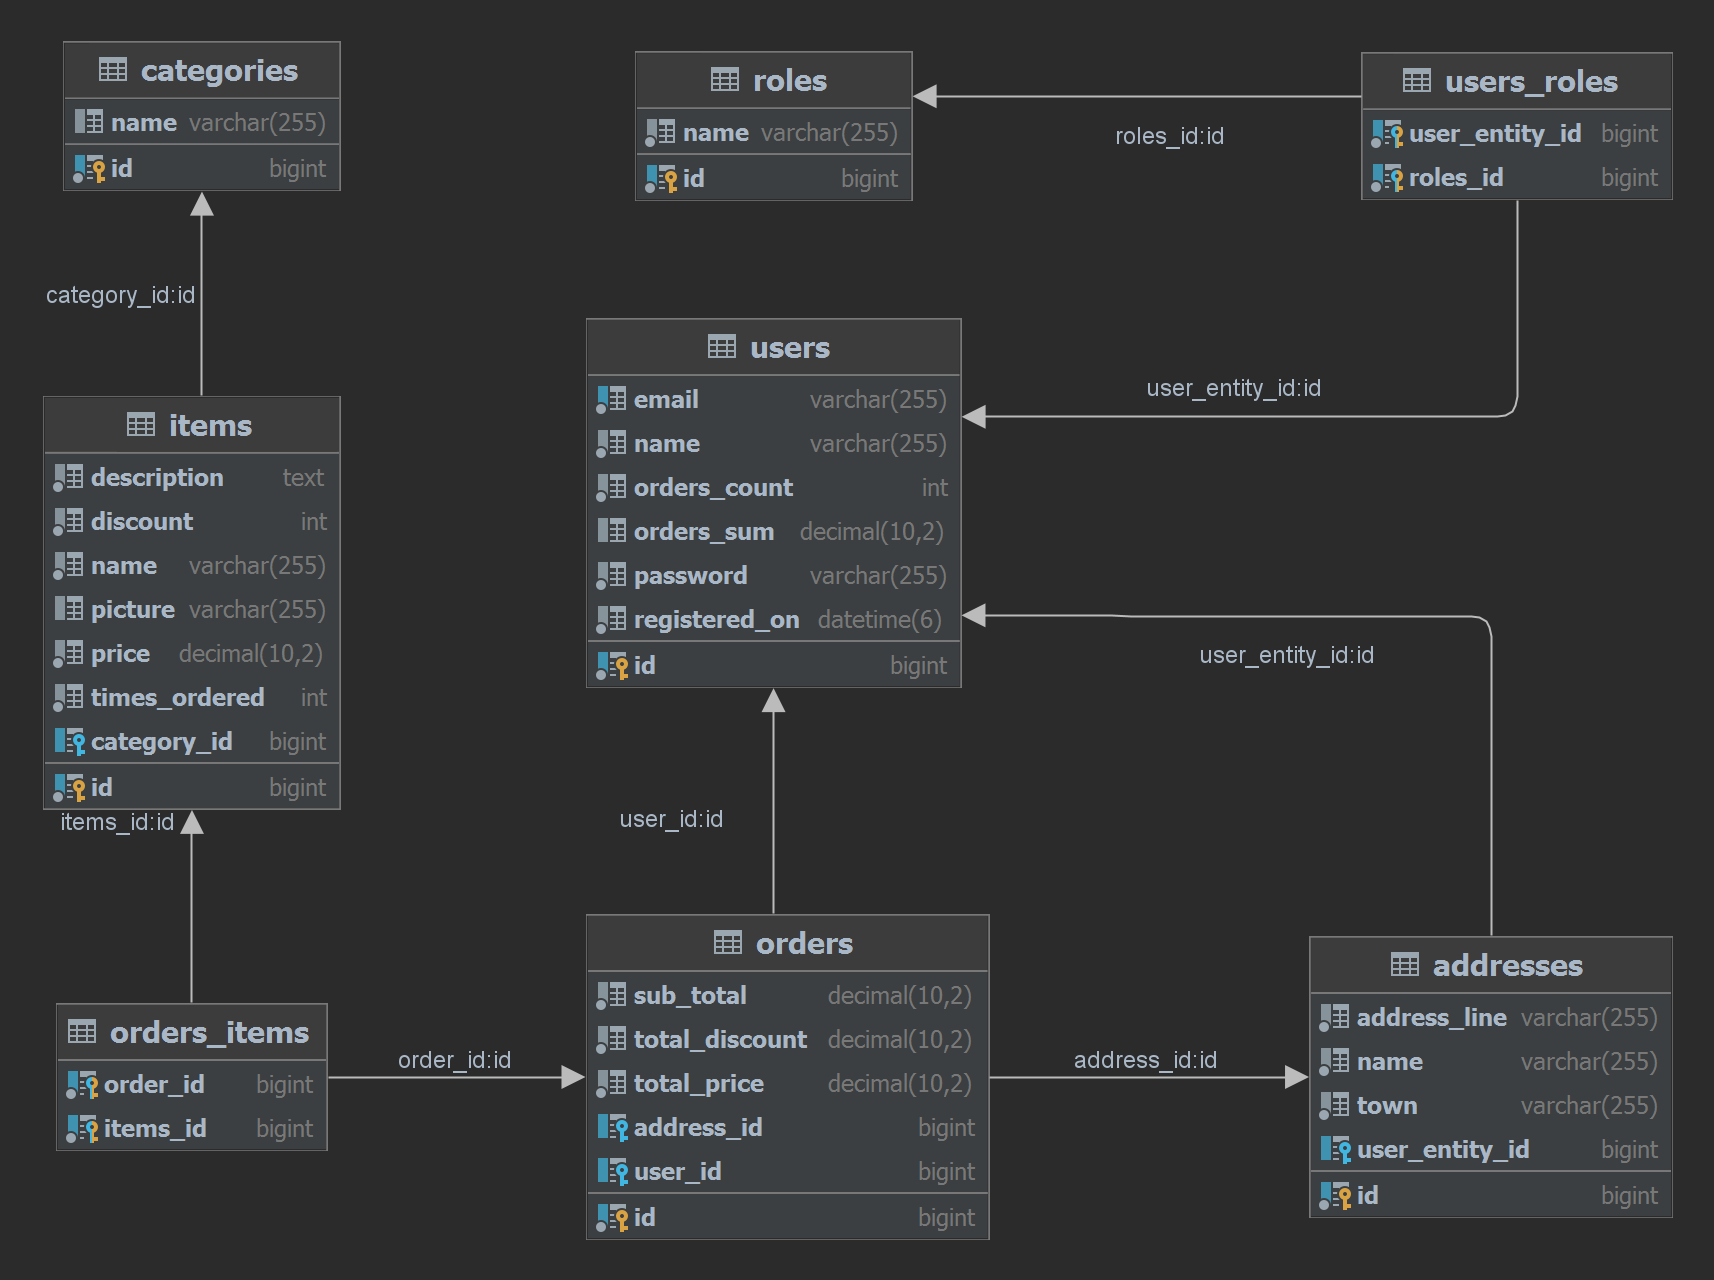
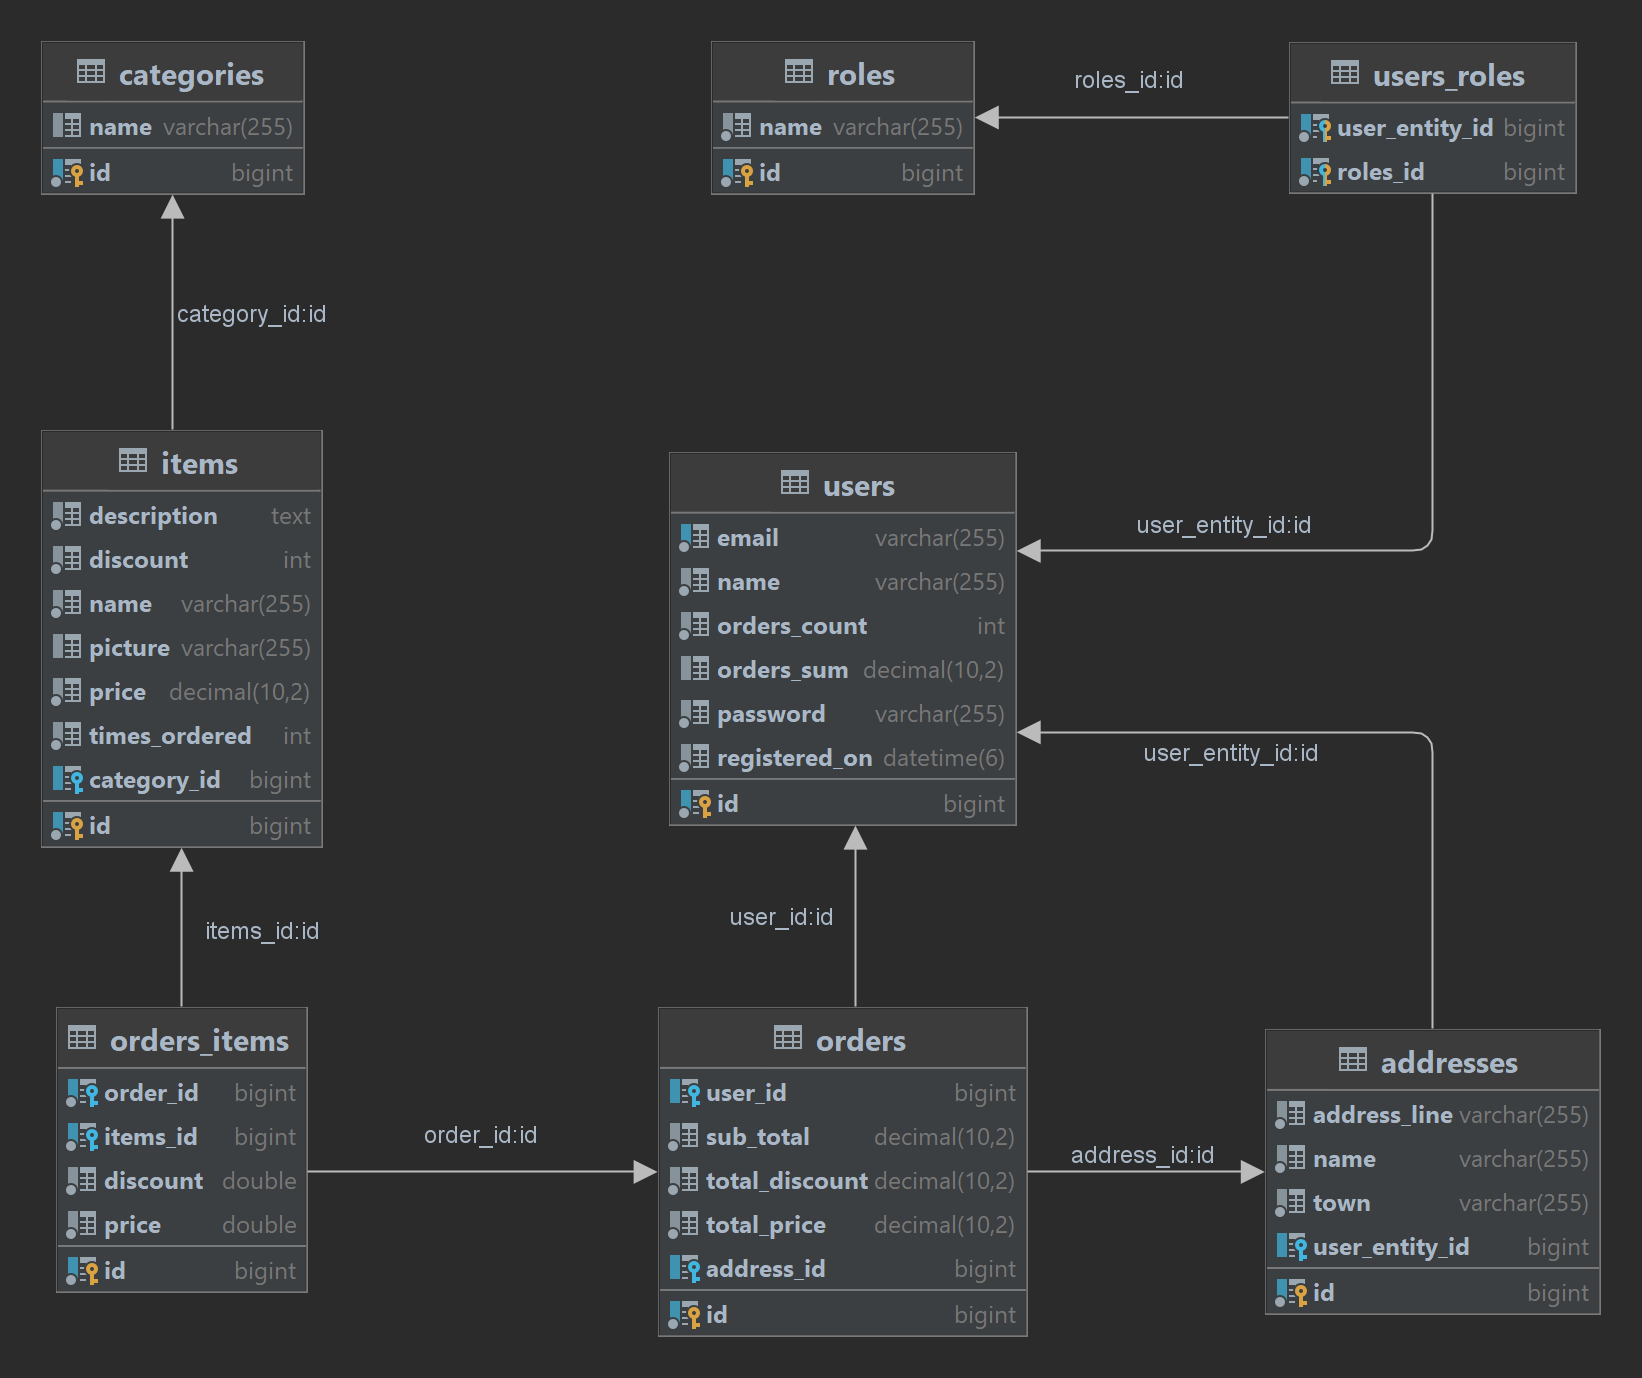
Finally, update orders_items table. Left to do in admin page.

diff --git a/OnlineShop/src/main/resources/templates/view-order.html b/OnlineShop/src/main/resources/templates/view-order.html
@@ -35,14 +35,14 @@
                                     </tr>
                                     </thead>
                                     <tbody class="align-middle">
-                                    <tr th:each="oi : ${order.getItems()}">
+                                    <tr th:each="oi : ${order.orderDetails}">
                                         <!--Item-->
-                                        <td><img th:src="${oi.pictureURL}" class="imgCart" th:alt="${oi.pictureURL}"></td>
+                                        <td><img th:src="${oi.getItem().getPictureURL()}" class="imgCart" th:alt="${oi.item.pictureURL}"></td>
 
                                         <!--Name-->
                                         <td class="text-left align-middle">
-                                            <p th:text="${oi.onlyName}" class="lead font-weight-bold"></p>
-                                            <p th:text="${oi.category.name}" class="h6"></p></td>
+                                            <p th:text="${oi.item.onlyName}" class="lead font-weight-bold"></p>
+                                            <p th:text="${oi.item.category.name}" class="h6"></p></td>
 
                                         <!--Price-->
                                         <td th:if="${oi.discount == 0}" class="align-middle">

diff --git a/OnlineShop/src/main/resources/templates/profile-view.html b/OnlineShop/src/main/resources/templates/profile-view.html
@@ -59,7 +59,7 @@
                     <tbody class="align-middle">
                     <tr th:each="o : ${orders}">
                         <td th:text="${o.id}" class="align-middle"></td>
-                        <td th:text="${o.items.size()}" class="align-middle"></td>
+                        <td th:text="${o.orderDetails.size()}" class="align-middle"></td>
                         <td th:text="${o.subTotal}" class="align-middle"></td>
                         <td th:text="${o.totalDiscount}" class="align-middle"></td>
                         <td th:text="${o.totalPrice}" class="align-middle"></td>

diff --git a/OnlineShop/src/main/resources/templates/profile.html b/OnlineShop/src/main/resources/templates/profile.html
@@ -90,7 +90,7 @@
                     <tbody class="align-middle">
                     <tr th:each="o : ${orders}">
                         <td th:text="${o.id}" class="align-middle"></td>
-                        <td th:text="${o.items.size()}" class="align-middle"></td>
+                        <td th:text="${o.orderDetails.size()}" class="align-middle"></td>
                         <td th:text="${o.subTotal}" class="align-middle"></td>
                         <td th:text="${o.totalDiscount}" class="align-middle"></td>
                         <td th:text="${o.totalPrice}" class="align-middle"></td>

diff --git a/OnlineShop/src/main/resources/templates/admin.html b/OnlineShop/src/main/resources/templates/admin.html
@@ -41,7 +41,7 @@
             <tr th:each="user : ${allUsers}">
                 <td th:text="${user.id}" class="align-middle"></td>
                 <td class="align-middle">
-                    <a th:href="@{/users/admin/view-profile/{id}(id=${user.id})}">
+                    <a th:href="@{/users/admin/view-profile/{id}(id=${user.id})}" class="btn btn-light">
                         <span th:text="${user.email}">
                     </span></a>
                 </td>

diff --git a/OnlineShop/src/main/java/com/onlineshop/service/OrderService.java b/OnlineShop/src/main/java/com/onlineshop/service/OrderService.java
@@ -1,17 +1,12 @@
 package com.onlineshop.service;
 
 import com.onlineshop.model.dto.OrderDTO;
-import com.onlineshop.model.entity.Address;
-import com.onlineshop.model.entity.Order;
-import com.onlineshop.model.entity.UserEntity;
+import com.onlineshop.model.entity.*;
 import com.onlineshop.model.user.ShopUserDetails;
-import com.onlineshop.repository.AddressRepository;
-import com.onlineshop.repository.OrderRepository;
-import com.onlineshop.repository.UserRepository;
+import com.onlineshop.repository.*;
 import org.springframework.stereotype.Service;
 
-import java.util.HashSet;
-import java.util.List;
+import java.util.*;
 
 
 @Service
@@ -20,22 +15,31 @@ public class OrderService {
     private final OrderRepository orderRepository;
     private final UserRepository userRepository;
     private final AddressRepository addressRepository;
+    private final ItemRepository itemRepository;
 
-    public OrderService(OrderRepository orderRepository, UserRepository userRepository, AddressRepository addressRepository) {
+    public OrderService(OrderRepository orderRepository, UserRepository userRepository, AddressRepository addressRepository, ItemRepository itemRepository) {
         this.orderRepository = orderRepository;
         this.userRepository = userRepository;
         this.addressRepository = addressRepository;
+        this.itemRepository = itemRepository;
     }
 
     public void newOrder(OrderDTO orderDTO, ShopUserDetails user) {
 
-        Order order = new Order();
-
         UserEntity userById = this.userRepository.getUserById(user.getId());
+
         String addressLine = orderDTO.getAddressLine().split("town:")[0];
         Address addressByAddressLine = this.addressRepository.findAddressByAddressLine(addressLine);
 
-        order.setItems(new HashSet<>(user.getCart()));
+        Collection<Item> cartItems = user.getCart();
+
+        //Order set up
+        Order order = new Order();
+
+        for (Item item : cartItems) {
+            OrderItem orderItem = new OrderItem(order, item, item.getPrice(), item.getDiscount());
+            order.addOrderItem(orderItem);
+        }
 
         if (user.getTotalDiscountValue() > 0) {
             order.setSubTotal(user.getTotalPrice());
@@ -46,13 +50,25 @@ public class OrderService {
         order.setAddress(addressByAddressLine);
         order.setUser(userById);
 
-        this.orderRepository.save(order);
 
+        //Item timesOrdered set up
+        cartItems.forEach(i -> {
+            int timesOrdered = i.getTimesOrdered();
+            timesOrdered++;
+            i.setTimesOrdered(timesOrdered);
+        });
+
+        //User set up
         double userCurrentOrderSum = userById.getOrdersSum();
         userById.setOrdersSum(userCurrentOrderSum + order.getTotalPrice());
         int userCurrentOrderCount = userById.getOrdersCount();
         userCurrentOrderCount++;
         userById.setOrdersCount(userCurrentOrderCount);
+        //--------------------------------------------------
+
+        this.orderRepository.save(order);
+
+        this.itemRepository.saveAll(cartItems);
 
         this.userRepository.save(userById);
     }

diff --git a/OnlineShop/src/main/java/com/onlineshop/model/entity/Order.java b/OnlineShop/src/main/java/com/onlineshop/model/entity/Order.java
@@ -1,6 +1,7 @@
 package com.onlineshop.model.entity;
 
 import javax.persistence.*;
+import java.util.HashSet;
 import java.util.Set;
 
 @Entity
@@ -10,12 +11,6 @@ public class Order {
     @Id
     @GeneratedValue(strategy = GenerationType.IDENTITY)
     private long id;
-
-    @ManyToMany(fetch = FetchType.EAGER)
-    @JoinTable(name = "orders_items",
-                joinColumns = @JoinColumn(name = "order_id", referencedColumnName = "id"),
-                inverseJoinColumns = @JoinColumn(name = "items_id", referencedColumnName = "id"))
-    private Set<Item> items;
 
     @Column(nullable = false, columnDefinition = "DECIMAL(10,2)")
     private double subTotal;
@@ -29,10 +24,16 @@ public class Order {
     @ManyToOne
     private Address address;
 
-    @OneToOne
+    @ManyToOne
     private UserEntity user;
 
+    @OneToMany(mappedBy = "order",
+            fetch = FetchType.EAGER,
+            cascade = CascadeType.ALL)
+    private Set<OrderItem> orderDetails;
+
     public Order() {
+        this.orderDetails = new HashSet<>();
     }
 
     public long getId() {
@@ -41,14 +42,6 @@ public class Order {
 
     public void setId(long id) {
         this.id = id;
-    }
-
-    public Set<Item> getItems() {
-        return items;
-    }
-
-    public void setItems(Set<Item> items) {
-        this.items = items;
     }
 
     public UserEntity getUser() {
@@ -89,5 +82,17 @@ public class Order {
 
     public void setAddress(Address address) {
         this.address = address;
+    }
+
+    public Set<OrderItem> getOrderDetails() {
+        return orderDetails;
+    }
+
+    public void setOrderDetails(Set<OrderItem> orderDetails) {
+        this.orderDetails = orderDetails;
+    }
+
+    public void addOrderItem(OrderItem orderItem) {
+        this.orderDetails.add(orderItem);
     }
 }

diff --git a/OnlineShop/src/main/java/com/onlineshop/model/entity/OrderItem.java b/OnlineShop/src/main/java/com/onlineshop/model/entity/OrderItem.java
@@ -1,0 +1,79 @@
+package com.onlineshop.model.entity;
+
+import javax.persistence.*;
+
+@Entity
+@Table(name = "orders_items")
+public class OrderItem {
+
+    @Id
+    @GeneratedValue(strategy = GenerationType.IDENTITY)
+    @Column(name = "id")
+    private long id;
+
+    @ManyToOne
+    @JoinColumn(name = "order_id", referencedColumnName = "id")
+    private Order order;
+
+    @ManyToOne
+    @JoinColumn(name = "item_id", referencedColumnName = "id")
+    private Item item;
+
+    @Column(nullable = false, columnDefinition = "DECIMAL(10,2)")
+    private double price;
+
+    @Column(nullable = false, columnDefinition = "DECIMAL(10,2)")
+    private double discount;
+
+    public OrderItem(Order order, Item item, double price, double discount) {
+        this.order = order;
+        this.item = item;
+        this.price = price;
+        this.discount = discount;
+    }
+
+    public OrderItem() {
+
+    }
+
+    public long getId() {
+        return id;
+    }
+
+    public void setId(long id) {
+        this.id = id;
+    }
+
+    public Order getOrder() {
+        return order;
+    }
+
+    public void setOrder(Order order) {
+        this.order = order;
+    }
+
+    public Item getItem() {
+        return item;
+    }
+
+    public void setItem(Item item) {
+        this.item = item;
+    }
+
+    public double getPrice() {
+        return price;
+    }
+
+    public void setPrice(double price) {
+        this.price = price;
+    }
+
+    public double getDiscount() {
+        return discount;
+    }
+
+    public void setDiscount(double discount) {
+        this.discount = discount;
+    }
+
+}

diff --git a/OnlineShop/src/main/java/com/onlineshop/model/entity/Item.java b/OnlineShop/src/main/java/com/onlineshop/model/entity/Item.java
@@ -1,6 +1,7 @@
 package com.onlineshop.model.entity;
 
 import javax.persistence.*;
+import java.util.Set;
 
 @Entity
 @Table(name = "items")
@@ -27,6 +28,11 @@ public class Item {
 
     @OneToOne
     private Category category;
+
+    @OneToMany(mappedBy = "item",
+            fetch = FetchType.EAGER,
+            cascade = CascadeType.ALL)
+    private Set<OrderItem> order;
 
     public Item(String name, String description, double price, Category category) {
         this.name = name;
@@ -109,6 +115,14 @@ public class Item {
 
     public void setCategory(Category category) {
         this.category = category;
+    }
+
+    public Set<OrderItem> getOrder() {
+        return order;
+    }
+
+    public void setOrder(Set<OrderItem> order) {
+        this.order = order;
     }
 }
 

diff --git a/OnlineShop/src/main/java/com/onlineshop/repository/OrderRepository.java b/OnlineShop/src/main/java/com/onlineshop/repository/OrderRepository.java
@@ -1,6 +1,7 @@
 package com.onlineshop.repository;
 
 import com.onlineshop.model.entity.Order;
+import com.onlineshop.model.entity.OrderItem;
 import org.springframework.data.jpa.repository.JpaRepository;
 import org.springframework.stereotype.Repository;
 
@@ -8,7 +9,6 @@ import java.util.List;
 
 @Repository
 public interface OrderRepository extends JpaRepository<Order, Long> {
-
     List<Order> getAllByUserId(long user_id);
 
     Order getOrderById(long id);
